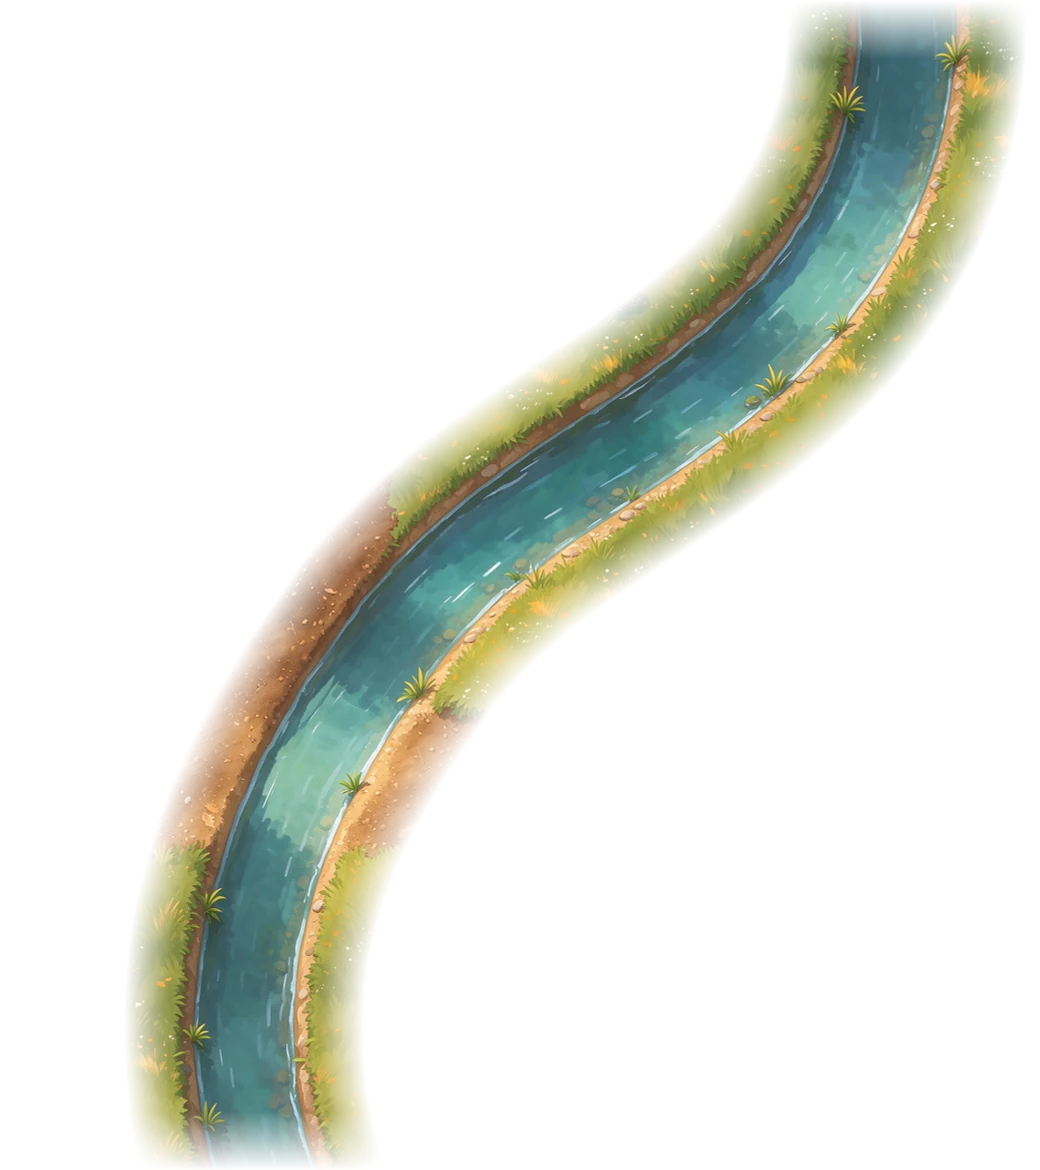
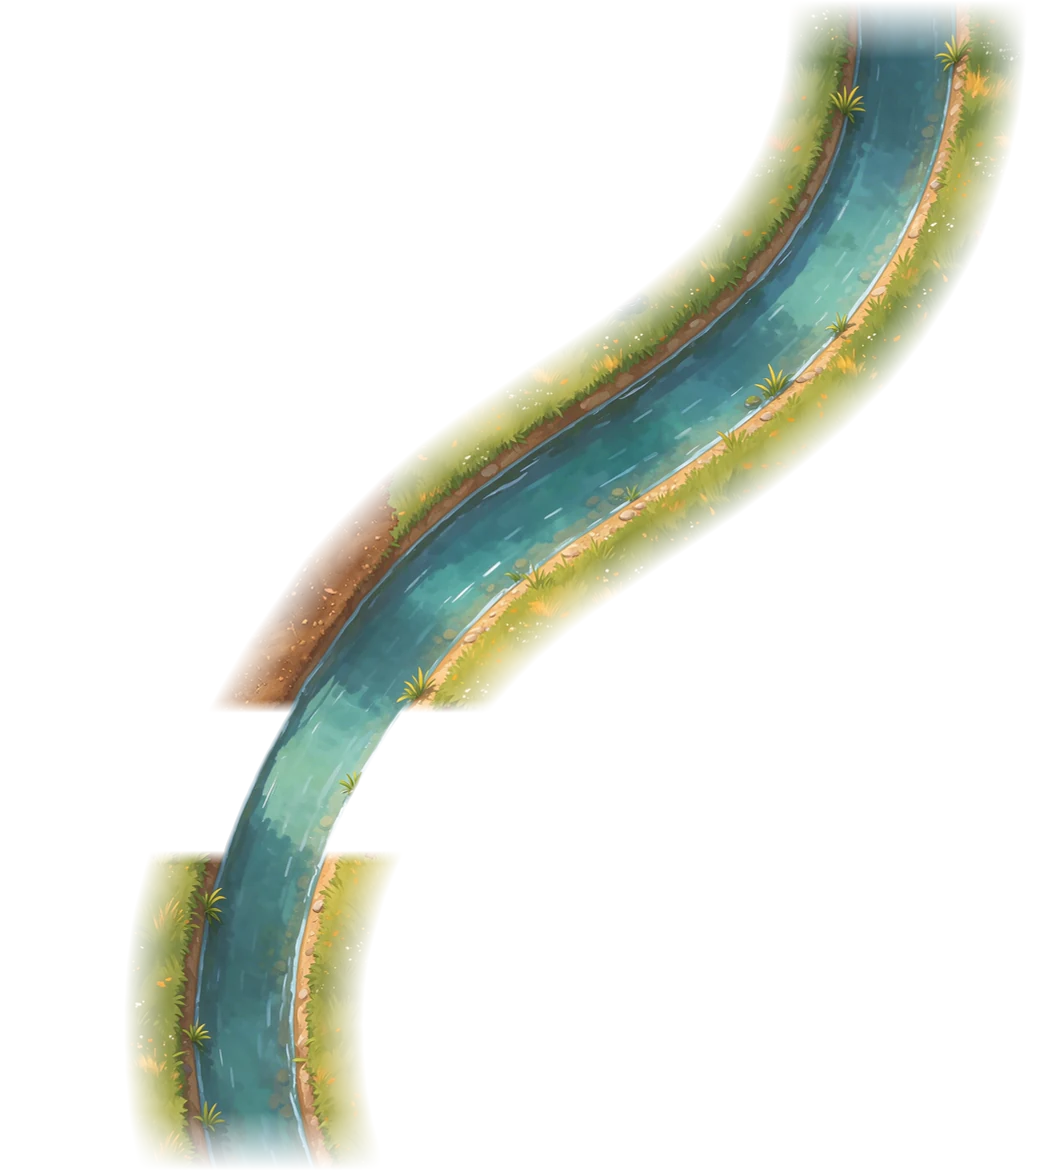
v280: переезд через ручей вместо деревянного моста, бортики пользователя

Changed region(s): [[0.3077, 0.5846, 0.4615, 0.7385], [0.1538, 0.5846, 0.2769, 0.7385]]

diff --git a/index.html b/index.html
@@ -347,7 +347,7 @@ body.overview .hud, body.overview .stick-zone, body.overview .guide, body.overvi
 <script>
 // ===================== Общие настройки =====================
 const DPR = Math.min(window.devicePixelRatio || 1, 3);
-const GAME_VERSION = 279;   // совпадает с номером в sw.js (farm-vN); видно в окне «Заново»
+const GAME_VERSION = 280;   // совпадает с номером в sw.js (farm-vN); видно в окне «Заново»
 // Слои земли (трава, дорожки, поля, тени) — глубже любых персонажей и деревьев, даже с отрицательной y
 const GROUND = -5000;
 // Карта: y от −1000 до 2000. Верх (y < 0) — поле с пшеницей, низ (y > 1000) — пастбище Эйнара
@@ -3267,7 +3267,6 @@ function solids() {
   if (zmeyNapping()) list.push([ZMEY_NAP.x - 34, ZMEY_NAP.y - 12, 68, 18]); else list.push([ANCHORS.zmey.x - 18, ANCHORS.zmey.y - 10, 36, 14]);
   if (cartSpot()) { const c = cartSpot(); list.push([c.x - 62, c.y - 14, 242, 16]); }   // телега Змея с лошадкой    // Змей (спит под деревом / у колодца)
   list.push([-421, 322, 52, 18]);   // колода для рубки дров
-  list.push([3163, -527, 167, 4], [3130, -434, 232, 4]);   // v276: перила моста — сквозь них не пройти (заходить — с концов, по дороге)
   list.push([ZMEY_TREE[1] + ZMEY_TREE[3] * 0.44, ZMEY_TREE[2] + ZMEY_TREE[4] - 26, ZMEY_TREE[3] * 0.13, 18]);   // v274: ствол оранжевого дуба за ручьём
   if (!hunt.active && torgelNpc) list.push([torgelNpc.x - 22, torgelNpc.y - 10, 44, 16]);   // Торгель (пока ловит героиню ночью — он ходит, место свободно)
   list.push([ANCHORS.kale.x - 29, ANCHORS.kale.y - 16, 58, 26]);  // Лейф
@@ -4967,8 +4966,8 @@ function drawRiver() {
 const STREAM = [[3256, -1763], [3274, -1747], [3294, -1727], [3321, -1701], [3352, -1669], [3370, -1651], [3388, -1631], [3407, -1611], [3426, -1589], [3446, -1566], [3465, -1541], [3485, -1516], [3505, -1490], [3525, -1464], [3545, -1436], [3563, -1408], [3582, -1379], [3599, -1350], [3616, -1320], [3631, -1290], [3645, -1259], [3658, -1228], [3669, -1198], [3679, -1167], [3687, -1136], [3693, -1105], [3697, -1074], [3698, -1043], [3697, -1013], [3694, -982], [3688, -953], [3679, -924], [3667, -895], [3652, -867], [3634, -840], [3614, -814], [3591, -791], [3566, -769], [3541, -749], [3514, -729], [3486, -710], [3459, -692], [3431, -673], [3404, -654], [3378, -634], [3353, -612], [3330, -590], [3308, -565], [3288, -536], [3268, -507], [3250, -477], [3234, -448], [3220, -418], [3209, -389], [3200, -359], [3193, -328], [3189, -297], [3187, -266], [3188, -234], [3191, -200], [3197, -166], [3221, -81], [3244, -22], [3271, 34], [3303, 87], [3338, 138], [3376, 186], [3418, 232], [3462, 276], [3509, 317], [3559, 356], [3611, 392], [3665, 427], [3720, 459], [3777, 490], [3835, 518], [3894, 544], [3954, 569], [4014, 592], [4074, 613], [4133, 633], [4193, 651], [4252, 667], [4310, 682], [4366, 696], [4422, 708], [4475, 719], [4527, 729], [4576, 738], [4623, 746], [4667, 752], [4709, 758], [4747, 763], [4781, 767], [4812, 770], [4838, 773], [4879, 777], [4903, 778]];
 const STREAM_HALF = 38;                      // половина ширины воды
 const STREAM_GAP = [3184, 3308];             // проём в нижнем заборе поля — там течёт ручей
-const BRIDGE = { x1: 3112, x2: 3379, y1: -527, y2: -434 };   // v276: мост — рисунок из Magnific (вариант C); по настилу можно ходить между y1 и y2
-const BRIDGE_IMG = { x: 3112, y: -547, w: 267, h: 153 };     // картинка моста: левый верх и размер на карте (v276: на 25% меньше — просьба)
+const BRIDGE = { x1: 3115, x2: 3361, y1: -505, y2: -394 };   // v280: переезд «насыпью» — дорога над ручьём с бревенчатыми бортиками; по ней можно ходить
+const BRIDGE_IMG = { x: 3092, y: -505, w: 292, h: 111 };     // картинка переезда (art/stream/make_crossing.py); деревянный мост v276 — assets/props/bridge*.webp, сейчас не используется
 const ROAD_KETIL = [[3099, -452], [3176, -447], [3242, -445], [3322, -443], [3390, -444], [3461, -446], [3535, -451], [3610, -458], [3685, -469], [3757, -483], [3825, -502], [3889, -524], [3954, -547], [4017, -569], [4090, -595], [4155, -618], [4160, -620]];   // дорога от моста к дому Кетиля (для телеги)
 function inStream(x, y) {
   if (x < 3150 || y > 800) return false;
@@ -5082,8 +5081,10 @@ function drawStream() {
   // v276: мост — рисунок: весь мост под героиней, передние перила, балка и брёвна — отдельной картинкой перед ней (и перед повозкой)
   drawStreamPaint();   // v278: рисованный участок у моста (проба)
   const BI = BRIDGE_IMG;
-  scene.add.image(BI.x, BI.y, 'bridge').setOrigin(0, 0).setDisplaySize(BI.w, BI.h).setDepth(GROUND - 7);
-  scene.add.image(BI.x, BI.y, 'bridge-front').setOrigin(0, 0).setDisplaySize(BI.w, BI.h).setDepth(B.y2);
+  scene.add.image(BI.x, BI.y, 'crossing').setOrigin(0, 0).setDisplaySize(BI.w, BI.h).setDepth(GROUND - 7);   // v280: переезд — плоский, лежит на земле
+  // бортики переезда — вырезаны пользователем из той же картинки (141×18 px при 1.3 px на точку карты), на своих местах
+  scene.add.image(3211 + 141 / 2.6, -516 + 18 / 2.6, 'beam-top').setDisplaySize(141 / 1.3, 18 / 1.3).setAngle(3.5).setDepth(GROUND - 6.95);   // чуть повёрнут: правый конец ниже (просьба)
+  scene.add.image(3162.3, -410, 'beam-bottom').setOrigin(0, 0).setDisplaySize(141 / 1.3, 18 / 1.3).setDepth(GROUND - 6.95);
 }
 // Опушка леса: картинки (Magnific, нарезка art/forest) расставлены как в Figma.
 // [картинка, x, y (левый верх), ширина, высота, глубина (0 — лежит на земле), вид: t — дерево (тень), o — камень/пень, f — плоское]
@@ -7296,7 +7297,7 @@ class FarmScene extends Phaser.Scene {
     this.load.image('fieldMouse', 'assets/fields/mouse.webp');
     this.load.image('prop-well', 'assets/props/well.webp');
     for (const k of ['mid', 'top', 'bot']) { this.load.image('stream-paint-' + k, 'assets/river/stream-paint-' + k + '.webp'); this.load.image('stream-water-' + k, 'assets/river/stream-water-' + k + '.webp'); }   // v279: рисованный ручей (3 участка)
-    this.load.image('bridge', 'assets/props/bridge.webp'); this.load.image('bridge-front', 'assets/props/bridge-front.webp');   // v276: мост
+    this.load.image('crossing', 'assets/props/crossing.webp'); this.load.image('beam-top', 'assets/props/beam-top.png'); this.load.image('beam-bottom', 'assets/props/beam-bottom.png');   // v280: переезд через ручей «насыпью»
     this.load.image('stoneBoulder', 'assets/props/stone-boulder.webp');
     this.load.image('prop-chop', 'assets/props/chop-block.webp');
     this.load.image('beds', 'assets/fields/beds.webp');

diff --git a/sw.js b/sw.js
@@ -4,7 +4,7 @@
 //  • картинки и движок — сразу из сохранённой копии (без похода в сеть при каждом запуске).
 //    Когда выходит новая версия (меняется CACHE), новый service worker при установке
 //    заново скачивает все файлы с меткой версии — гарантированно свежие.
-const CACHE = 'farm-v279';
+const CACHE = 'farm-v280';
 const CORE = [
   './',
   './index.html',
@@ -47,7 +47,7 @@ const CORE = [
   './assets/river/river-0.webp',
   './assets/river/river-1.webp',
   './assets/props/well.webp',
-  './assets/props/bridge.webp', './assets/props/bridge-front.webp',   // v276: мост
+  './assets/props/crossing.webp', './assets/props/beam-top.png', './assets/props/beam-bottom.png',   // v280: переезд через ручей
   ...['mid', 'top', 'bot'].flatMap(k => [`./assets/river/stream-paint-${k}.webp`, `./assets/river/stream-water-${k}.webp`]),   // v279: рисованный ручей
   './assets/props/field-sign.webp',
   './assets/props/chop-block.webp',
